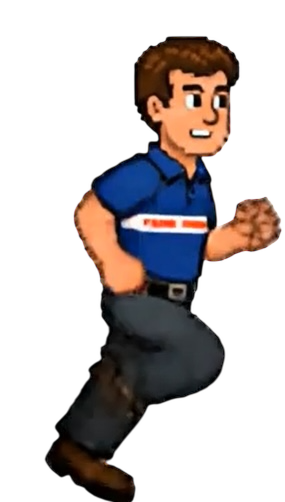
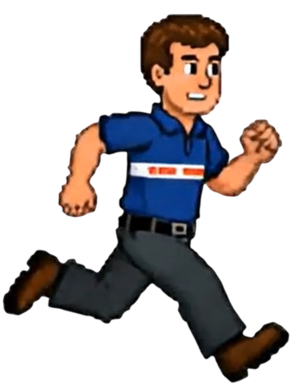
refactor: reorganize player animation

diff --git a/caosnaestrada/build/reports/problems/problems-report.html b/caosnaestrada/build/reports/problems/problems-report.html
@@ -650,7 +650,7 @@ code + .copy-button {
 <script type="text/javascript">
 function configurationCacheProblems() { return (
 // begin-report-data
-{"diagnostics":[{"locations":[{}],"problem":[{"text":"Properties should be assigned using the 'propName = value' syntax. Setting a property via the Gradle-generated 'propName value' or 'propName(value)' syntax in Groovy DSL has been deprecated."}],"severity":"WARNING","problemDetails":[{"text":"This is scheduled to be removed in Gradle 10.0."}],"contextualLabel":"Properties should be assigned using the 'propName = value' syntax. Setting a property via the Gradle-generated 'propName value' or 'propName(value)' syntax in Groovy DSL has been deprecated.","documentationLink":"https://docs.gradle.org/8.14.1/userguide/upgrading_version_8.html#groovy_space_assignment_syntax","problemId":[{"name":"deprecation","displayName":"Deprecation"},{"name":"properties-should-be-assigned-using-the-propname-value-syntax-setting-a-property-via-the-gradle-generated-propname-value-or-propname-value-syntax-in-groovy-dsl","displayName":"Properties should be assigned using the 'propName = value' syntax. Setting a property via the Gradle-generated 'propName value' or 'propName(value)' syntax in Groovy DSL has been deprecated."}],"solutions":[[{"text":"Use assignment ('url = <value>') instead."}]]},{"locations":[{}],"problem":[{"text":"Properties should be assigned using the 'propName = value' syntax. Setting a property via the Gradle-generated 'propName value' or 'propName(value)' syntax in Groovy DSL has been deprecated."}],"severity":"WARNING","problemDetails":[{"text":"This is scheduled to be removed in Gradle 10.0."}],"contextualLabel":"Properties should be assigned using the 'propName = value' syntax. Setting a property via the Gradle-generated 'propName value' or 'propName(value)' syntax in Groovy DSL has been deprecated.","documentationLink":"https://docs.gradle.org/8.14.1/userguide/upgrading_version_8.html#groovy_space_assignment_syntax","problemId":[{"name":"deprecation","displayName":"Deprecation"},{"name":"properties-should-be-assigned-using-the-propname-value-syntax-setting-a-property-via-the-gradle-generated-propname-value-or-propname-value-syntax-in-groovy-dsl","displayName":"Properties should be assigned using the 'propName = value' syntax. Setting a property via the Gradle-generated 'propName value' or 'propName(value)' syntax in Groovy DSL has been deprecated."}],"solutions":[[{"text":"Use assignment ('url = <value>') instead."}]]},{"locations":[{}],"problem":[{"text":"Properties should be assigned using the 'propName = value' syntax. Setting a property via the Gradle-generated 'propName value' or 'propName(value)' syntax in Groovy DSL has been deprecated."}],"severity":"WARNING","problemDetails":[{"text":"This is scheduled to be removed in Gradle 10.0."}],"contextualLabel":"Properties should be assigned using the 'propName = value' syntax. Setting a property via the Gradle-generated 'propName value' or 'propName(value)' syntax in Groovy DSL has been deprecated.","documentationLink":"https://docs.gradle.org/8.14.1/userguide/upgrading_version_8.html#groovy_space_assignment_syntax","problemId":[{"name":"deprecation","displayName":"Deprecation"},{"name":"properties-should-be-assigned-using-the-propname-value-syntax-setting-a-property-via-the-gradle-generated-propname-value-or-propname-value-syntax-in-groovy-dsl","displayName":"Properties should be assigned using the 'propName = value' syntax. Setting a property via the Gradle-generated 'propName value' or 'propName(value)' syntax in Groovy DSL has been deprecated."}],"solutions":[[{"text":"Use assignment ('url = <value>') instead."}]]},{"locations":[{}],"problem":[{"text":"Properties should be assigned using the 'propName = value' syntax. Setting a property via the Gradle-generated 'propName value' or 'propName(value)' syntax in Groovy DSL has been deprecated."}],"severity":"WARNING","problemDetails":[{"text":"This is scheduled to be removed in Gradle 10.0."}],"contextualLabel":"Properties should be assigned using the 'propName = value' syntax. Setting a property via the Gradle-generated 'propName value' or 'propName(value)' syntax in Groovy DSL has been deprecated.","documentationLink":"https://docs.gradle.org/8.14.1/userguide/upgrading_version_8.html#groovy_space_assignment_syntax","problemId":[{"name":"deprecation","displayName":"Deprecation"},{"name":"properties-should-be-assigned-using-the-propname-value-syntax-setting-a-property-via-the-gradle-generated-propname-value-or-propname-value-syntax-in-groovy-dsl","displayName":"Properties should be assigned using the 'propName = value' syntax. Setting a property via the Gradle-generated 'propName value' or 'propName(value)' syntax in Groovy DSL has been deprecated."}],"solutions":[[{"text":"Use assignment ('outputDir = <value>') instead."}]]},{"locations":[{}],"problem":[{"text":"Properties should be assigned using the 'propName = value' syntax. Setting a property via the Gradle-generated 'propName value' or 'propName(value)' syntax in Groovy DSL has been deprecated."}],"severity":"WARNING","problemDetails":[{"text":"This is scheduled to be removed in Gradle 10.0."}],"contextualLabel":"Properties should be assigned using the 'propName = value' syntax. Setting a property via the Gradle-generated 'propName value' or 'propName(value)' syntax in Groovy DSL has been deprecated.","documentationLink":"https://docs.gradle.org/8.14.1/userguide/upgrading_version_8.html#groovy_space_assignment_syntax","problemId":[{"name":"deprecation","displayName":"Deprecation"},{"name":"properties-should-be-assigned-using-the-propname-value-syntax-setting-a-property-via-the-gradle-generated-propname-value-or-propname-value-syntax-in-groovy-dsl","displayName":"Properties should be assigned using the 'propName = value' syntax. Setting a property via the Gradle-generated 'propName value' or 'propName(value)' syntax in Groovy DSL has been deprecated."}],"solutions":[[{"text":"Use assignment ('testOutputDir = <value>') instead."}]]},{"locations":[{}],"problem":[{"text":"The org.gradle.api.plugins.JavaPluginConvention type has been deprecated."}],"severity":"WARNING","problemDetails":[{"text":"This is scheduled to be removed in Gradle 9.0."}],"contextualLabel":"The org.gradle.api.plugins.JavaPluginConvention type has been deprecated.","documentationLink":"https://docs.gradle.org/8.14.1/userguide/upgrading_version_8.html#java_convention_deprecation","problemId":[{"name":"deprecation","displayName":"Deprecation"},{"name":"the-org-gradle-api-plugins-javapluginconvention-type-has-been-deprecated","displayName":"The org.gradle.api.plugins.JavaPluginConvention type has been deprecated."}]},{"locations":[{}],"problem":[{"text":"The org.gradle.api.plugins.JavaPluginConvention type has been deprecated."}],"severity":"WARNING","problemDetails":[{"text":"This is scheduled to be removed in Gradle 9.0."}],"contextualLabel":"The org.gradle.api.plugins.JavaPluginConvention type has been deprecated.","documentationLink":"https://docs.gradle.org/8.14.1/userguide/upgrading_version_8.html#java_convention_deprecation","problemId":[{"name":"deprecation","displayName":"Deprecation"},{"name":"the-org-gradle-api-plugins-javapluginconvention-type-has-been-deprecated","displayName":"The org.gradle.api.plugins.JavaPluginConvention type has been deprecated."}]},{"locations":[{}],"problem":[{"text":"Properties should be assigned using the 'propName = value' syntax. Setting a property via the Gradle-generated 'propName value' or 'propName(value)' syntax in Groovy DSL has been deprecated."}],"severity":"WARNING","problemDetails":[{"text":"This is scheduled to be removed in Gradle 10.0."}],"contextualLabel":"Properties should be assigned using the 'propName = value' syntax. Setting a property via the Gradle-generated 'propName value' or 'propName(value)' syntax in Groovy DSL has been deprecated.","documentationLink":"https://docs.gradle.org/8.14.1/userguide/upgrading_version_8.html#groovy_space_assignment_syntax","problemId":[{"name":"deprecation","displayName":"Deprecation"},{"name":"properties-should-be-assigned-using-the-propname-value-syntax-setting-a-property-via-the-gradle-generated-propname-value-or-propname-value-syntax-in-groovy-dsl","displayName":"Properties should be assigned using the 'propName = value' syntax. Setting a property via the Gradle-generated 'propName value' or 'propName(value)' syntax in Groovy DSL has been deprecated."}],"solutions":[[{"text":"Use assignment ('url = <value>') instead."}]]},{"locations":[{}],"problem":[{"text":"Properties should be assigned using the 'propName = value' syntax. Setting a property via the Gradle-generated 'propName value' or 'propName(value)' syntax in Groovy DSL has been deprecated."}],"severity":"WARNING","problemDetails":[{"text":"This is scheduled to be removed in Gradle 10.0."}],"contextualLabel":"Properties should be assigned using the 'propName = value' syntax. Setting a property via the Gradle-generated 'propName value' or 'propName(value)' syntax in Groovy DSL has been deprecated.","documentationLink":"https://docs.gradle.org/8.14.1/userguide/upgrading_version_8.html#groovy_space_assignment_syntax","problemId":[{"name":"deprecation","displayName":"Deprecation"},{"name":"properties-should-be-assigned-using-the-propname-value-syntax-setting-a-property-via-the-gradle-generated-propname-value-or-propname-value-syntax-in-groovy-dsl","displayName":"Properties should be assigned using the 'propName = value' syntax. Setting a property via the Gradle-generated 'propName value' or 'propName(value)' syntax in Groovy DSL has been deprecated."}],"solutions":[[{"text":"Use assignment ('url = <value>') instead."}]]},{"locations":[{}],"problem":[{"text":"Properties should be assigned using the 'propName = value' syntax. Setting a property via the Gradle-generated 'propName value' or 'propName(value)' syntax in Groovy DSL has been deprecated."}],"severity":"WARNING","problemDetails":[{"text":"This is scheduled to be removed in Gradle 10.0."}],"contextualLabel":"Properties should be assigned using the 'propName = value' syntax. Setting a property via the Gradle-generated 'propName value' or 'propName(value)' syntax in Groovy DSL has been deprecated.","documentationLink":"https://docs.gradle.org/8.14.1/userguide/upgrading_version_8.html#groovy_space_assignment_syntax","problemId":[{"name":"deprecation","displayName":"Deprecation"},{"name":"properties-should-be-assigned-using-the-propname-value-syntax-setting-a-property-via-the-gradle-generated-propname-value-or-propname-value-syntax-in-groovy-dsl","displayName":"Properties should be assigned using the 'propName = value' syntax. Setting a property via the Gradle-generated 'propName value' or 'propName(value)' syntax in Groovy DSL has been deprecated."}],"solutions":[[{"text":"Use assignment ('url = <value>') instead."}]]},{"locations":[{}],"problem":[{"text":"Properties should be assigned using the 'propName = value' syntax. Setting a property via the Gradle-generated 'propName value' or 'propName(value)' syntax in Groovy DSL has been deprecated."}],"severity":"WARNING","problemDetails":[{"text":"This is scheduled to be removed in Gradle 10.0."}],"contextualLabel":"Properties should be assigned using the 'propName = value' syntax. Setting a property via the Gradle-generated 'propName value' or 'propName(value)' syntax in Groovy DSL has been deprecated.","documentationLink":"https://docs.gradle.org/8.14.1/userguide/upgrading_version_8.html#groovy_space_assignment_syntax","problemId":[{"name":"deprecation","displayName":"Deprecation"},{"name":"properties-should-be-assigned-using-the-propname-value-syntax-setting-a-property-via-the-gradle-generated-propname-value-or-propname-value-syntax-in-groovy-dsl","displayName":"Properties should be assigned using the 'propName = value' syntax. Setting a property via the Gradle-generated 'propName value' or 'propName(value)' syntax in Groovy DSL has been deprecated."}],"solutions":[[{"text":"Use assignment ('url = <value>') instead."}]]},{"locations":[{}],"problem":[{"text":"The org.gradle.api.plugins.ApplicationPluginConvention type has been deprecated."}],"severity":"WARNING","problemDetails":[{"text":"This is scheduled to be removed in Gradle 9.0."}],"contextualLabel":"The org.gradle.api.plugins.ApplicationPluginConvention type has been deprecated.","documentationLink":"https://docs.gradle.org/8.14.1/userguide/upgrading_version_8.html#application_convention_deprecation","problemId":[{"name":"deprecation","displayName":"Deprecation"},{"name":"the-org-gradle-api-plugins-applicationpluginconvention-type-has-been-deprecated","displayName":"The org.gradle.api.plugins.ApplicationPluginConvention type has been deprecated."}]},{"locations":[{}],"problem":[{"text":"The org.gradle.api.plugins.ApplicationPluginConvention type has been deprecated."}],"severity":"WARNING","problemDetails":[{"text":"This is scheduled to be removed in Gradle 9.0."}],"contextualLabel":"The org.gradle.api.plugins.ApplicationPluginConvention type has been deprecated.","documentationLink":"https://docs.gradle.org/8.14.1/userguide/upgrading_version_8.html#application_convention_deprecation","problemId":[{"name":"deprecation","displayName":"Deprecation"},{"name":"the-org-gradle-api-plugins-applicationpluginconvention-type-has-been-deprecated","displayName":"The org.gradle.api.plugins.ApplicationPluginConvention type has been deprecated."}]},{"locations":[{}],"problem":[{"text":"Properties should be assigned using the 'propName = value' syntax. Setting a property via the Gradle-generated 'propName value' or 'propName(value)' syntax in Groovy DSL has been deprecated."}],"severity":"WARNING","problemDetails":[{"text":"This is scheduled to be removed in Gradle 10.0."}],"contextualLabel":"Properties should be assigned using the 'propName = value' syntax. Setting a property via the Gradle-generated 'propName value' or 'propName(value)' syntax in Groovy DSL has been deprecated.","documentationLink":"https://docs.gradle.org/8.14.1/userguide/upgrading_version_8.html#groovy_space_assignment_syntax","problemId":[{"name":"deprecation","displayName":"Deprecation"},{"name":"properties-should-be-assigned-using-the-propname-value-syntax-setting-a-property-via-the-gradle-generated-propname-value-or-propname-value-syntax-in-groovy-dsl","displayName":"Properties should be assigned using the 'propName = value' syntax. Setting a property via the Gradle-generated 'propName value' or 'propName(value)' syntax in Groovy DSL has been deprecated."}],"solutions":[[{"text":"Use assignment ('duplicatesStrategy = <value>') instead."}]]},{"locations":[{}],"problem":[{"text":"The org.gradle.api.plugins.ApplicationPluginConvention type has been deprecated."}],"severity":"WARNING","problemDetails":[{"text":"This is scheduled to be removed in Gradle 9.0."}],"contextualLabel":"The org.gradle.api.plugins.ApplicationPluginConvention type has been deprecated.","documentationLink":"https://docs.gradle.org/8.14.1/userguide/upgrading_version_8.html#application_convention_deprecation","problemId":[{"name":"deprecation","displayName":"Deprecation"},{"name":"the-org-gradle-api-plugins-applicationpluginconvention-type-has-been-deprecated","displayName":"The org.gradle.api.plugins.ApplicationPluginConvention type has been deprecated."}]},{"locations":[{}],"problem":[{"text":"The org.gradle.api.plugins.Convention type has been deprecated."}],"severity":"WARNING","problemDetails":[{"text":"This is scheduled to be removed in Gradle 9.0."}],"contextualLabel":"The org.gradle.api.plugins.Convention type has been deprecated.","documentationLink":"https://docs.gradle.org/8.14.1/userguide/upgrading_version_8.html#deprecated_access_to_conventions","problemId":[{"name":"deprecation","displayName":"Deprecation"},{"name":"the-org-gradle-api-plugins-convention-type-has-been-deprecated","displayName":"The org.gradle.api.plugins.Convention type has been deprecated."}]},{"locations":[{}],"problem":[{"text":"The org.gradle.api.plugins.Convention type has been deprecated."}],"severity":"WARNING","problemDetails":[{"text":"This is scheduled to be removed in Gradle 9.0."}],"contextualLabel":"The org.gradle.api.plugins.Convention type has been deprecated.","documentationLink":"https://docs.gradle.org/8.14.1/userguide/upgrading_version_8.html#deprecated_access_to_conventions","problemId":[{"name":"deprecation","displayName":"Deprecation"},{"name":"the-org-gradle-api-plugins-convention-type-has-been-deprecated","displayName":"The org.gradle.api.plugins.Convention type has been deprecated."}]},{"locations":[{}],"problem":[{"text":"The org.gradle.api.plugins.Convention type has been deprecated."}],"severity":"WARNING","problemDetails":[{"text":"This is scheduled to be removed in Gradle 9.0."}],"contextualLabel":"The org.gradle.api.plugins.Convention type has been deprecated.","documentationLink":"https://docs.gradle.org/8.14.1/userguide/upgrading_version_8.html#deprecated_access_to_conventions","problemId":[{"name":"deprecation","displayName":"Deprecation"},{"name":"the-org-gradle-api-plugins-convention-type-has-been-deprecated","displayName":"The org.gradle.api.plugins.Convention type has been deprecated."}]}],"problemsReport":{"totalProblemCount":18,"buildName":"caosnaestrada","requestedTasks":"","documentationLink":"https://docs.gradle.org/8.14.1/userguide/reporting_problems.html","documentationLinkCaption":"Problem report","summaries":[]}}
+{"diagnostics":[{"locations":[{}],"problem":[{"text":"Properties should be assigned using the 'propName = value' syntax. Setting a property via the Gradle-generated 'propName value' or 'propName(value)' syntax in Groovy DSL has been deprecated."}],"severity":"WARNING","problemDetails":[{"text":"This is scheduled to be removed in Gradle 10.0."}],"contextualLabel":"Properties should be assigned using the 'propName = value' syntax. Setting a property via the Gradle-generated 'propName value' or 'propName(value)' syntax in Groovy DSL has been deprecated.","documentationLink":"https://docs.gradle.org/8.14.1/userguide/upgrading_version_8.html#groovy_space_assignment_syntax","problemId":[{"name":"deprecation","displayName":"Deprecation"},{"name":"properties-should-be-assigned-using-the-propname-value-syntax-setting-a-property-via-the-gradle-generated-propname-value-or-propname-value-syntax-in-groovy-dsl","displayName":"Properties should be assigned using the 'propName = value' syntax. Setting a property via the Gradle-generated 'propName value' or 'propName(value)' syntax in Groovy DSL has been deprecated."}],"solutions":[[{"text":"Use assignment ('url = <value>') instead."}]]},{"locations":[{}],"problem":[{"text":"Properties should be assigned using the 'propName = value' syntax. Setting a property via the Gradle-generated 'propName value' or 'propName(value)' syntax in Groovy DSL has been deprecated."}],"severity":"WARNING","problemDetails":[{"text":"This is scheduled to be removed in Gradle 10.0."}],"contextualLabel":"Properties should be assigned using the 'propName = value' syntax. Setting a property via the Gradle-generated 'propName value' or 'propName(value)' syntax in Groovy DSL has been deprecated.","documentationLink":"https://docs.gradle.org/8.14.1/userguide/upgrading_version_8.html#groovy_space_assignment_syntax","problemId":[{"name":"deprecation","displayName":"Deprecation"},{"name":"properties-should-be-assigned-using-the-propname-value-syntax-setting-a-property-via-the-gradle-generated-propname-value-or-propname-value-syntax-in-groovy-dsl","displayName":"Properties should be assigned using the 'propName = value' syntax. Setting a property via the Gradle-generated 'propName value' or 'propName(value)' syntax in Groovy DSL has been deprecated."}],"solutions":[[{"text":"Use assignment ('url = <value>') instead."}]]},{"locations":[{}],"problem":[{"text":"Properties should be assigned using the 'propName = value' syntax. Setting a property via the Gradle-generated 'propName value' or 'propName(value)' syntax in Groovy DSL has been deprecated."}],"severity":"WARNING","problemDetails":[{"text":"This is scheduled to be removed in Gradle 10.0."}],"contextualLabel":"Properties should be assigned using the 'propName = value' syntax. Setting a property via the Gradle-generated 'propName value' or 'propName(value)' syntax in Groovy DSL has been deprecated.","documentationLink":"https://docs.gradle.org/8.14.1/userguide/upgrading_version_8.html#groovy_space_assignment_syntax","problemId":[{"name":"deprecation","displayName":"Deprecation"},{"name":"properties-should-be-assigned-using-the-propname-value-syntax-setting-a-property-via-the-gradle-generated-propname-value-or-propname-value-syntax-in-groovy-dsl","displayName":"Properties should be assigned using the 'propName = value' syntax. Setting a property via the Gradle-generated 'propName value' or 'propName(value)' syntax in Groovy DSL has been deprecated."}],"solutions":[[{"text":"Use assignment ('url = <value>') instead."}]]},{"locations":[{}],"problem":[{"text":"Properties should be assigned using the 'propName = value' syntax. Setting a property via the Gradle-generated 'propName value' or 'propName(value)' syntax in Groovy DSL has been deprecated."}],"severity":"WARNING","problemDetails":[{"text":"This is scheduled to be removed in Gradle 10.0."}],"contextualLabel":"Properties should be assigned using the 'propName = value' syntax. Setting a property via the Gradle-generated 'propName value' or 'propName(value)' syntax in Groovy DSL has been deprecated.","documentationLink":"https://docs.gradle.org/8.14.1/userguide/upgrading_version_8.html#groovy_space_assignment_syntax","problemId":[{"name":"deprecation","displayName":"Deprecation"},{"name":"properties-should-be-assigned-using-the-propname-value-syntax-setting-a-property-via-the-gradle-generated-propname-value-or-propname-value-syntax-in-groovy-dsl","displayName":"Properties should be assigned using the 'propName = value' syntax. Setting a property via the Gradle-generated 'propName value' or 'propName(value)' syntax in Groovy DSL has been deprecated."}],"solutions":[[{"text":"Use assignment ('outputDir = <value>') instead."}]]},{"locations":[{}],"problem":[{"text":"Properties should be assigned using the 'propName = value' syntax. Setting a property via the Gradle-generated 'propName value' or 'propName(value)' syntax in Groovy DSL has been deprecated."}],"severity":"WARNING","problemDetails":[{"text":"This is scheduled to be removed in Gradle 10.0."}],"contextualLabel":"Properties should be assigned using the 'propName = value' syntax. Setting a property via the Gradle-generated 'propName value' or 'propName(value)' syntax in Groovy DSL has been deprecated.","documentationLink":"https://docs.gradle.org/8.14.1/userguide/upgrading_version_8.html#groovy_space_assignment_syntax","problemId":[{"name":"deprecation","displayName":"Deprecation"},{"name":"properties-should-be-assigned-using-the-propname-value-syntax-setting-a-property-via-the-gradle-generated-propname-value-or-propname-value-syntax-in-groovy-dsl","displayName":"Properties should be assigned using the 'propName = value' syntax. Setting a property via the Gradle-generated 'propName value' or 'propName(value)' syntax in Groovy DSL has been deprecated."}],"solutions":[[{"text":"Use assignment ('testOutputDir = <value>') instead."}]]},{"locations":[{}],"problem":[{"text":"The org.gradle.api.plugins.JavaPluginConvention type has been deprecated."}],"severity":"WARNING","problemDetails":[{"text":"This is scheduled to be removed in Gradle 9.0."}],"contextualLabel":"The org.gradle.api.plugins.JavaPluginConvention type has been deprecated.","documentationLink":"https://docs.gradle.org/8.14.1/userguide/upgrading_version_8.html#java_convention_deprecation","problemId":[{"name":"deprecation","displayName":"Deprecation"},{"name":"the-org-gradle-api-plugins-javapluginconvention-type-has-been-deprecated","displayName":"The org.gradle.api.plugins.JavaPluginConvention type has been deprecated."}]},{"locations":[{}],"problem":[{"text":"The org.gradle.api.plugins.JavaPluginConvention type has been deprecated."}],"severity":"WARNING","problemDetails":[{"text":"This is scheduled to be removed in Gradle 9.0."}],"contextualLabel":"The org.gradle.api.plugins.JavaPluginConvention type has been deprecated.","documentationLink":"https://docs.gradle.org/8.14.1/userguide/upgrading_version_8.html#java_convention_deprecation","problemId":[{"name":"deprecation","displayName":"Deprecation"},{"name":"the-org-gradle-api-plugins-javapluginconvention-type-has-been-deprecated","displayName":"The org.gradle.api.plugins.JavaPluginConvention type has been deprecated."}]},{"locations":[{}],"problem":[{"text":"Properties should be assigned using the 'propName = value' syntax. Setting a property via the Gradle-generated 'propName value' or 'propName(value)' syntax in Groovy DSL has been deprecated."}],"severity":"WARNING","problemDetails":[{"text":"This is scheduled to be removed in Gradle 10.0."}],"contextualLabel":"Properties should be assigned using the 'propName = value' syntax. Setting a property via the Gradle-generated 'propName value' or 'propName(value)' syntax in Groovy DSL has been deprecated.","documentationLink":"https://docs.gradle.org/8.14.1/userguide/upgrading_version_8.html#groovy_space_assignment_syntax","problemId":[{"name":"deprecation","displayName":"Deprecation"},{"name":"properties-should-be-assigned-using-the-propname-value-syntax-setting-a-property-via-the-gradle-generated-propname-value-or-propname-value-syntax-in-groovy-dsl","displayName":"Properties should be assigned using the 'propName = value' syntax. Setting a property via the Gradle-generated 'propName value' or 'propName(value)' syntax in Groovy DSL has been deprecated."}],"solutions":[[{"text":"Use assignment ('url = <value>') instead."}]]},{"locations":[{}],"problem":[{"text":"Properties should be assigned using the 'propName = value' syntax. Setting a property via the Gradle-generated 'propName value' or 'propName(value)' syntax in Groovy DSL has been deprecated."}],"severity":"WARNING","problemDetails":[{"text":"This is scheduled to be removed in Gradle 10.0."}],"contextualLabel":"Properties should be assigned using the 'propName = value' syntax. Setting a property via the Gradle-generated 'propName value' or 'propName(value)' syntax in Groovy DSL has been deprecated.","documentationLink":"https://docs.gradle.org/8.14.1/userguide/upgrading_version_8.html#groovy_space_assignment_syntax","problemId":[{"name":"deprecation","displayName":"Deprecation"},{"name":"properties-should-be-assigned-using-the-propname-value-syntax-setting-a-property-via-the-gradle-generated-propname-value-or-propname-value-syntax-in-groovy-dsl","displayName":"Properties should be assigned using the 'propName = value' syntax. Setting a property via the Gradle-generated 'propName value' or 'propName(value)' syntax in Groovy DSL has been deprecated."}],"solutions":[[{"text":"Use assignment ('url = <value>') instead."}]]},{"locations":[{}],"problem":[{"text":"Properties should be assigned using the 'propName = value' syntax. Setting a property via the Gradle-generated 'propName value' or 'propName(value)' syntax in Groovy DSL has been deprecated."}],"severity":"WARNING","problemDetails":[{"text":"This is scheduled to be removed in Gradle 10.0."}],"contextualLabel":"Properties should be assigned using the 'propName = value' syntax. Setting a property via the Gradle-generated 'propName value' or 'propName(value)' syntax in Groovy DSL has been deprecated.","documentationLink":"https://docs.gradle.org/8.14.1/userguide/upgrading_version_8.html#groovy_space_assignment_syntax","problemId":[{"name":"deprecation","displayName":"Deprecation"},{"name":"properties-should-be-assigned-using-the-propname-value-syntax-setting-a-property-via-the-gradle-generated-propname-value-or-propname-value-syntax-in-groovy-dsl","displayName":"Properties should be assigned using the 'propName = value' syntax. Setting a property via the Gradle-generated 'propName value' or 'propName(value)' syntax in Groovy DSL has been deprecated."}],"solutions":[[{"text":"Use assignment ('url = <value>') instead."}]]},{"locations":[{}],"problem":[{"text":"Properties should be assigned using the 'propName = value' syntax. Setting a property via the Gradle-generated 'propName value' or 'propName(value)' syntax in Groovy DSL has been deprecated."}],"severity":"WARNING","problemDetails":[{"text":"This is scheduled to be removed in Gradle 10.0."}],"contextualLabel":"Properties should be assigned using the 'propName = value' syntax. Setting a property via the Gradle-generated 'propName value' or 'propName(value)' syntax in Groovy DSL has been deprecated.","documentationLink":"https://docs.gradle.org/8.14.1/userguide/upgrading_version_8.html#groovy_space_assignment_syntax","problemId":[{"name":"deprecation","displayName":"Deprecation"},{"name":"properties-should-be-assigned-using-the-propname-value-syntax-setting-a-property-via-the-gradle-generated-propname-value-or-propname-value-syntax-in-groovy-dsl","displayName":"Properties should be assigned using the 'propName = value' syntax. Setting a property via the Gradle-generated 'propName value' or 'propName(value)' syntax in Groovy DSL has been deprecated."}],"solutions":[[{"text":"Use assignment ('url = <value>') instead."}]]},{"locations":[{}],"problem":[{"text":"The org.gradle.api.plugins.ApplicationPluginConvention type has been deprecated."}],"severity":"WARNING","problemDetails":[{"text":"This is scheduled to be removed in Gradle 9.0."}],"contextualLabel":"The org.gradle.api.plugins.ApplicationPluginConvention type has been deprecated.","documentationLink":"https://docs.gradle.org/8.14.1/userguide/upgrading_version_8.html#application_convention_deprecation","problemId":[{"name":"deprecation","displayName":"Deprecation"},{"name":"the-org-gradle-api-plugins-applicationpluginconvention-type-has-been-deprecated","displayName":"The org.gradle.api.plugins.ApplicationPluginConvention type has been deprecated."}]},{"locations":[{}],"problem":[{"text":"The org.gradle.api.plugins.ApplicationPluginConvention type has been deprecated."}],"severity":"WARNING","problemDetails":[{"text":"This is scheduled to be removed in Gradle 9.0."}],"contextualLabel":"The org.gradle.api.plugins.ApplicationPluginConvention type has been deprecated.","documentationLink":"https://docs.gradle.org/8.14.1/userguide/upgrading_version_8.html#application_convention_deprecation","problemId":[{"name":"deprecation","displayName":"Deprecation"},{"name":"the-org-gradle-api-plugins-applicationpluginconvention-type-has-been-deprecated","displayName":"The org.gradle.api.plugins.ApplicationPluginConvention type has been deprecated."}]},{"locations":[{}],"problem":[{"text":"Properties should be assigned using the 'propName = value' syntax. Setting a property via the Gradle-generated 'propName value' or 'propName(value)' syntax in Groovy DSL has been deprecated."}],"severity":"WARNING","problemDetails":[{"text":"This is scheduled to be removed in Gradle 10.0."}],"contextualLabel":"Properties should be assigned using the 'propName = value' syntax. Setting a property via the Gradle-generated 'propName value' or 'propName(value)' syntax in Groovy DSL has been deprecated.","documentationLink":"https://docs.gradle.org/8.14.1/userguide/upgrading_version_8.html#groovy_space_assignment_syntax","problemId":[{"name":"deprecation","displayName":"Deprecation"},{"name":"properties-should-be-assigned-using-the-propname-value-syntax-setting-a-property-via-the-gradle-generated-propname-value-or-propname-value-syntax-in-groovy-dsl","displayName":"Properties should be assigned using the 'propName = value' syntax. Setting a property via the Gradle-generated 'propName value' or 'propName(value)' syntax in Groovy DSL has been deprecated."}],"solutions":[[{"text":"Use assignment ('duplicatesStrategy = <value>') instead."}]]},{"locations":[{}],"problem":[{"text":"The org.gradle.api.plugins.ApplicationPluginConvention type has been deprecated."}],"severity":"WARNING","problemDetails":[{"text":"This is scheduled to be removed in Gradle 9.0."}],"contextualLabel":"The org.gradle.api.plugins.ApplicationPluginConvention type has been deprecated.","documentationLink":"https://docs.gradle.org/8.14.1/userguide/upgrading_version_8.html#application_convention_deprecation","problemId":[{"name":"deprecation","displayName":"Deprecation"},{"name":"the-org-gradle-api-plugins-applicationpluginconvention-type-has-been-deprecated","displayName":"The org.gradle.api.plugins.ApplicationPluginConvention type has been deprecated."}]}],"problemsReport":{"totalProblemCount":15,"buildName":"caosnaestrada","requestedTasks":"lwjgl3:run","documentationLink":"https://docs.gradle.org/8.14.1/userguide/reporting_problems.html","documentationLinkCaption":"Problem report","summaries":[]}}
 // end-report-data
 );}
 </script>

diff --git a/caosnaestrada/core/src/main/java/br/techmackgame/Player.java b/caosnaestrada/core/src/main/java/br/techmackgame/Player.java
@@ -30,20 +30,20 @@ public class Player extends GameObject{
         this.standingLeft = texture;
         
         // Carregar frames da animação de correr para direita
-        framesCorridaDireita = new TextureRegion[15];
-        for (int i = 0; i < 15; i++) {
+        framesCorridaDireita = new TextureRegion[13];
+        for (int i = 0; i < 13; i++) {
                 Texture t = new Texture("RunRight" + (i+1) + ".png");
             framesCorridaDireita[i] = new TextureRegion(t);
         }
-        runAnimationRight = new Animation<>(0.05f, framesCorridaDireita);
+        runAnimationRight = new Animation<>(0.1f, framesCorridaDireita);
         
         // Para a esquerda, vamos usar os mesmos frames da direita mas invertidos horizontalmente
-        TextureRegion[] framesEsquerda = new TextureRegion[15];
-        for (int i = 0; i < 15; i++) {
+        TextureRegion[] framesEsquerda = new TextureRegion[13];
+        for (int i = 0; i < 13; i++) {
             framesEsquerda[i] = new TextureRegion(framesCorridaDireita[i]);
             framesEsquerda[i].flip(true, false); // Inverte horizontalmente
         }
-        runAnimationLeft = new Animation<>(0.05f, framesEsquerda);
+        runAnimationLeft = new Animation<>(0.1f, framesEsquerda);
     }
 
     @Override
